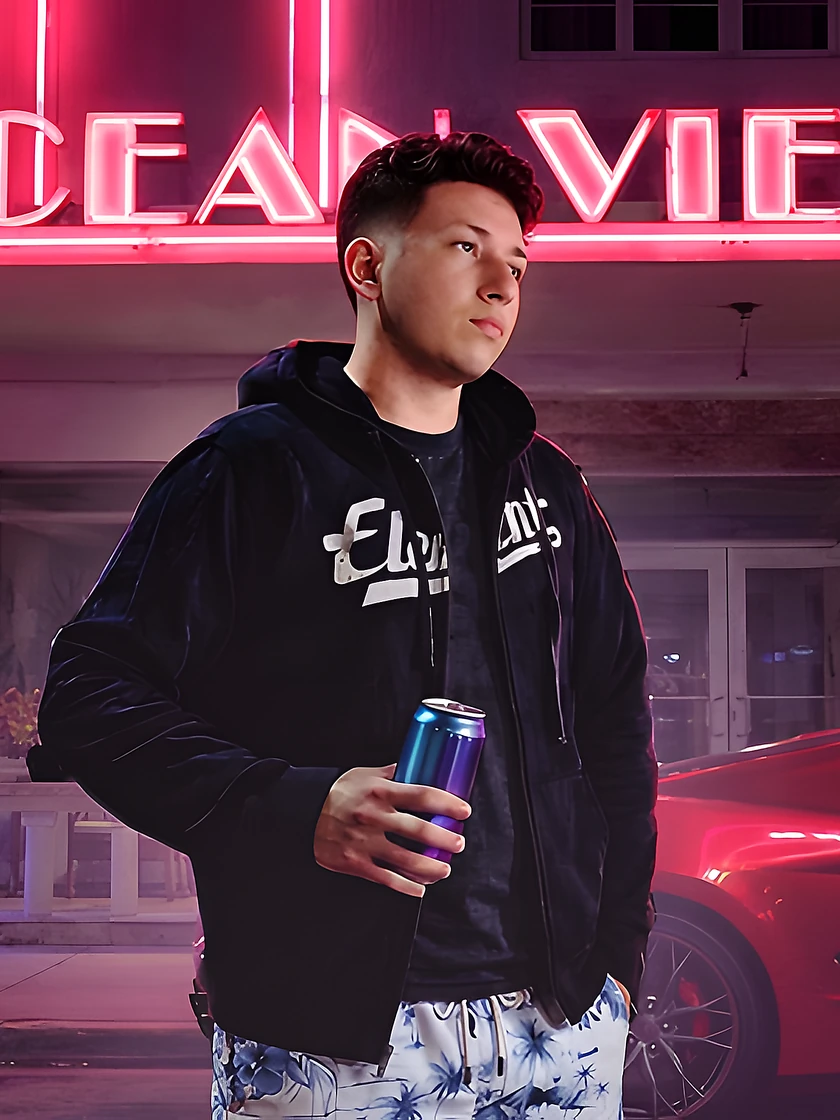
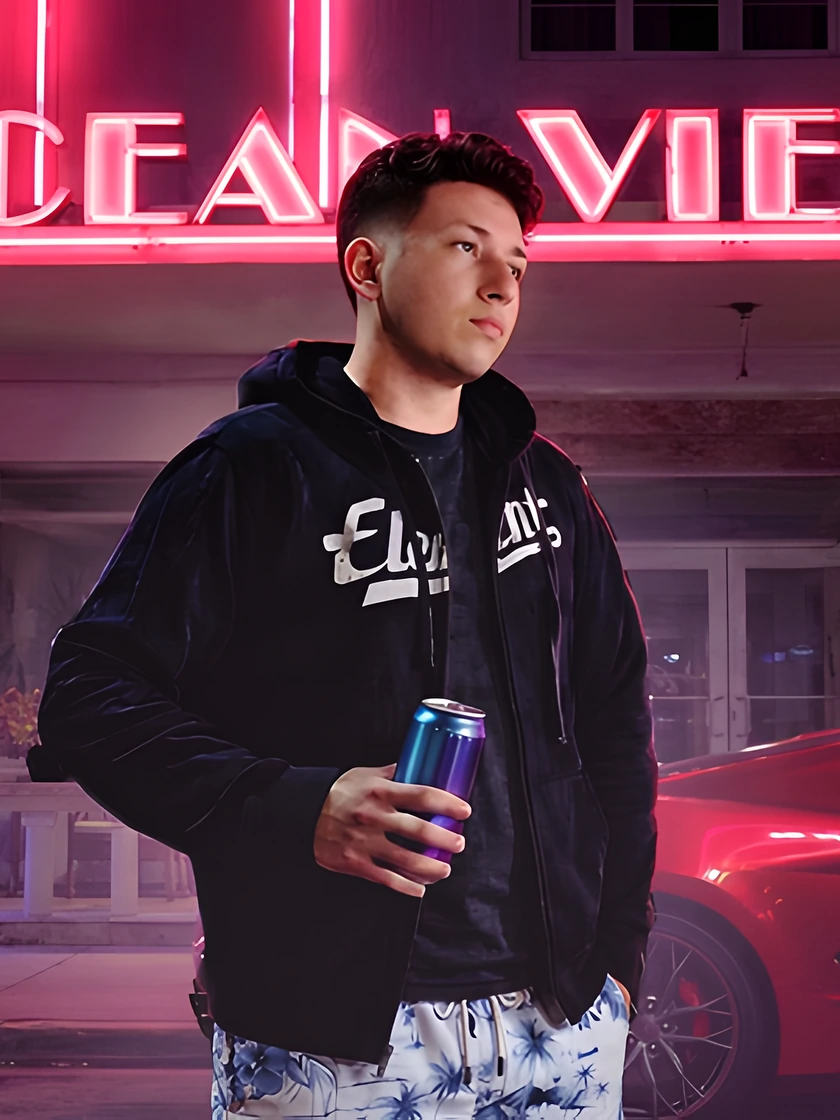
chore: atualizar imagem de upscaling 16x e retrato Sobre com nova versao

diff --git a/components/Navbar.tsx b/components/Navbar.tsx
@@ -268,7 +268,7 @@ export const Navbar: React.FC = () => {
                   {/* Foto vertical do criador no lado esquerdo */}
                   <div className="relative h-60 sm:h-auto sm:min-h-[380px] bg-[#050C16] overflow-hidden border-b sm:border-b-0 sm:border-r border-white/[0.08]">
                     <img
-                      src="/bd/jones-byte-about.webp?v=20261126"
+                      src="/bd/jones-byte-about.webp?v=20261126-2"
                       alt="Jones Byte"
                       className="w-full h-full object-cover object-top block"
                     />

diff --git a/components/Features.tsx b/components/Features.tsx
@@ -12,7 +12,7 @@ import {
 } from 'lucide-react';
 import { useLanguage } from '../i18n/LanguageContext';
 
-const BENTO_V = '20261126-v511-16x';
+const BENTO_V = '20261126-v512-16x';
 
 interface PreviewTab {
   id: string;
